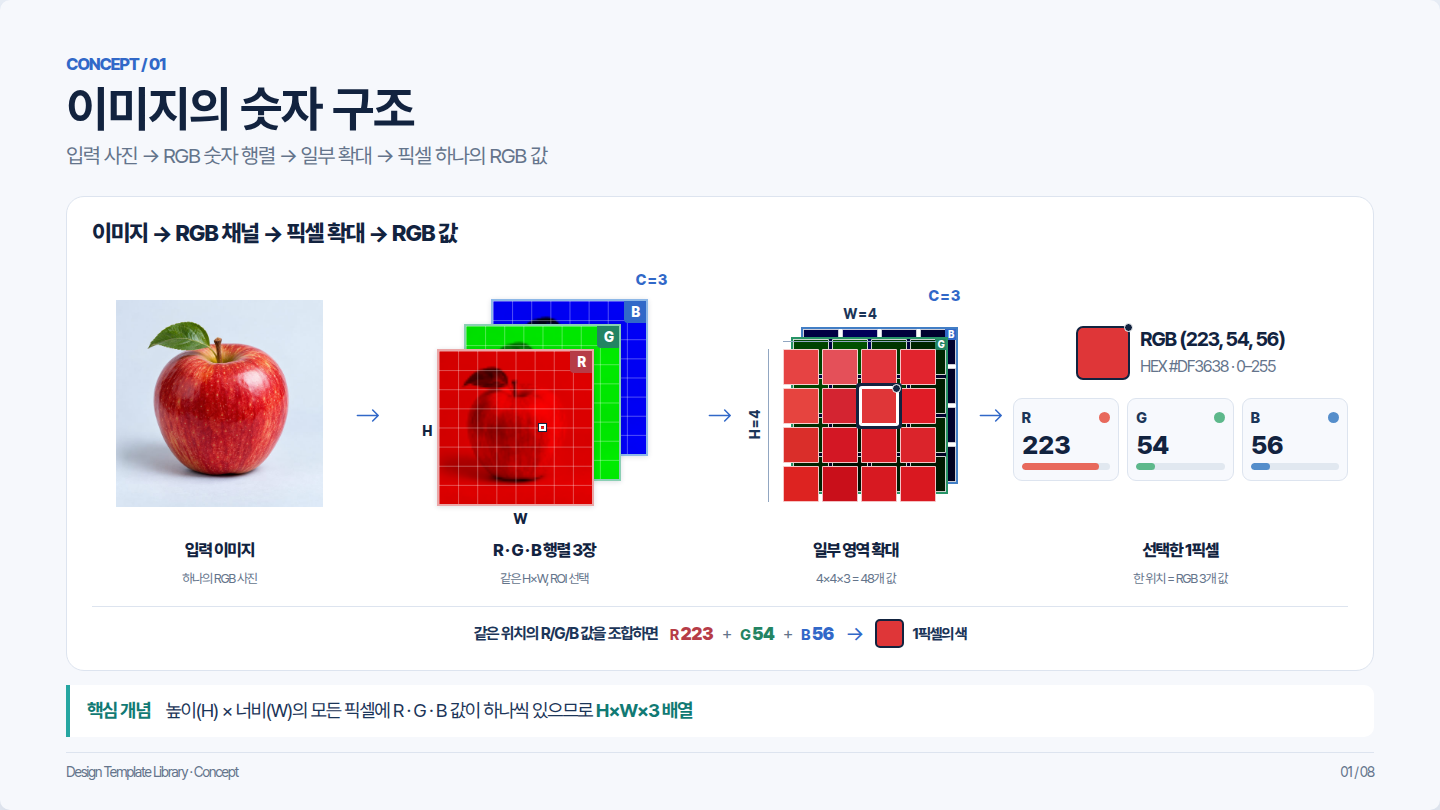
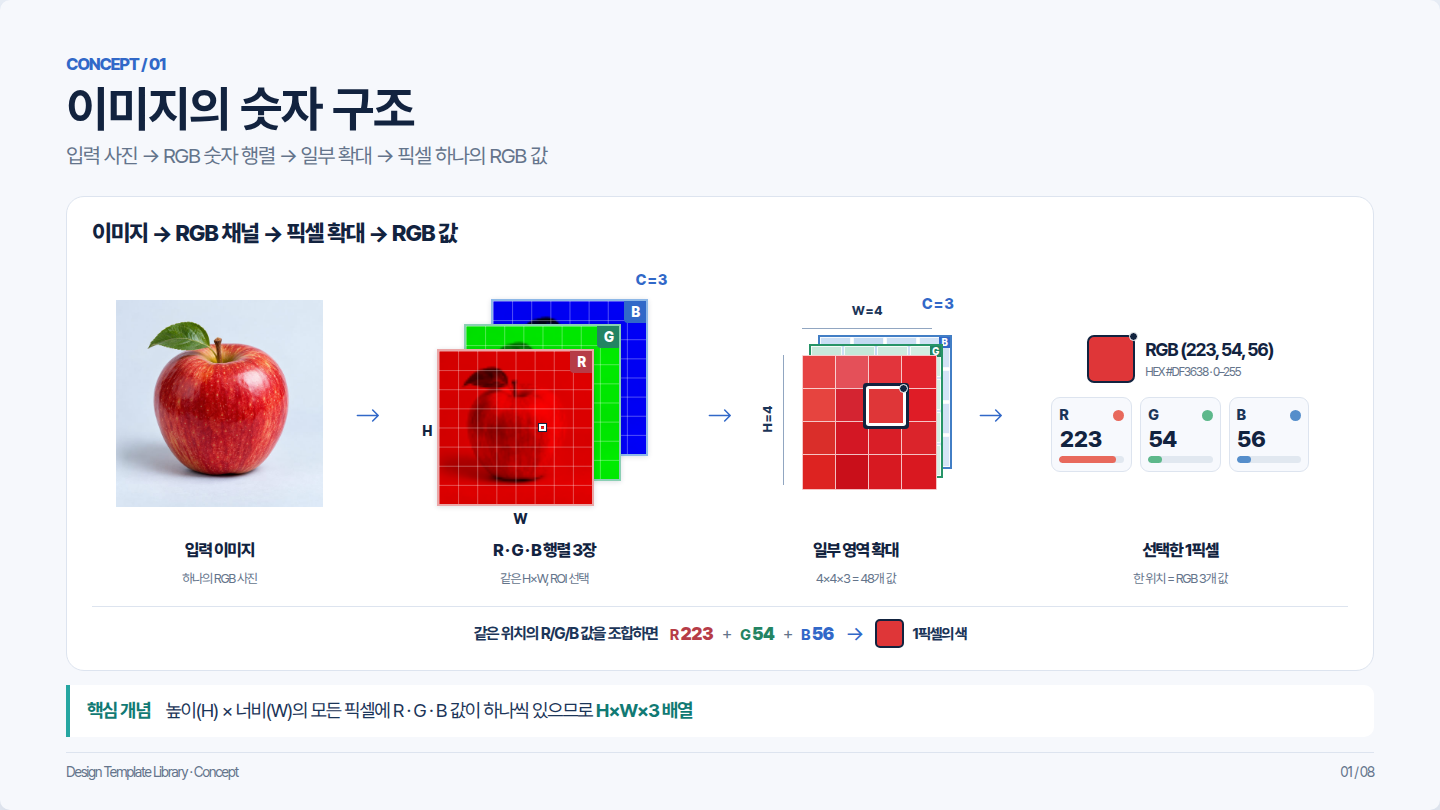
chore(concept): update reviewed Chromium PNG for resized RGB crop

Changed region(s): [[0.5, 0.3704, 0.9062, 0.6173], [0.8438, 0.4938, 0.9375, 0.5864], [0.9062, 0.4938, 0.9375, 0.5247]]

diff --git a/scripts/validate_references.py b/scripts/validate_references.py
@@ -492,13 +492,5 @@ def main(argv=None):
         report_path.write_text(json.dumps(report,ensure_ascii=False,indent=2)+'\n')
         if len(args.templates)==8 and report_path.name=='reference-validation.json':write_compatibility_reports(report)
     print(f'PASS {len(report["cases"])} final-source viewports; report: {report_path}')
-    # One-run Chromium preview transport; removed after the PNG is committed.
-    import base64
-    if 'concept' in updated_previews:
-        encoded=base64.b64encode(
-            (ROOT/'previews/html-concept.png').read_bytes()).decode('ascii')
-        for i in range(0,len(encoded),4096):
-            print('CONCEPT_PREVIEW_B64='+encoded[i:i+4096],flush=True)
-
 
 if __name__=='__main__':main()
